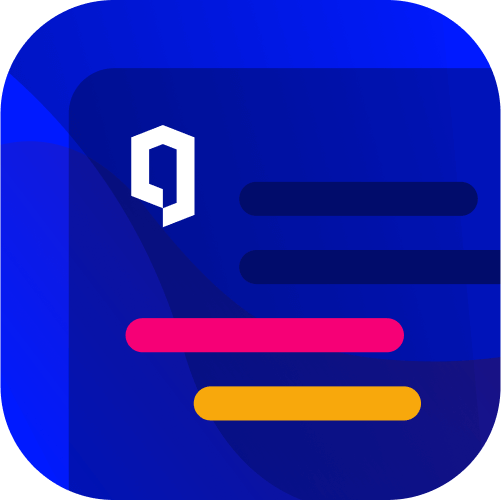
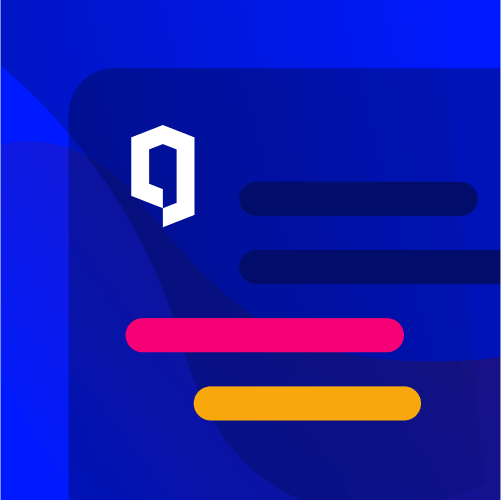
Version 1.2.3

diff --git a/CHANGELOG.md b/CHANGELOG.md
@@ -1,3 +1,6 @@
+## 1.2.3
+- Fix pub dev icon
+
 ## 1.2.2
 - Fix pub dev picture
 
